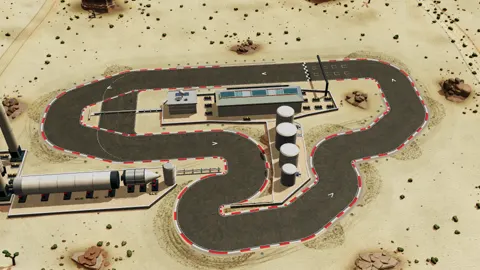
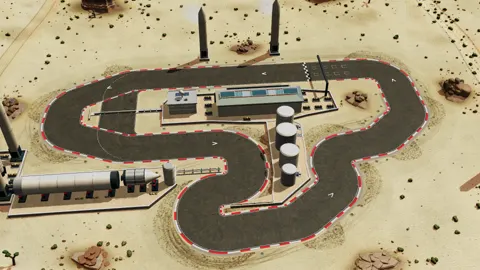
Fix Hop shortcuts, desktop racing lines and phone pause menus
Allow the marked Launchsite hairpin crossings and Golden Gate quay Hop while retaining adjacent protected parcels. Trim bridge abutments, expand rocket staging and boil-off, animate river canoes, and restore visible desktop pace lines.

Validation: 859 unit tests, 27 exact handling fixtures, browser layouts and actual Hop races, rendering budgets, and production Pages smoke checks. Physical Safari verification remains pending.

Changed region(s): [[0.5, 0.0, 0.5938, 0.2667], [0.3438, 0.0296, 0.4375, 0.2667], [0.9375, 0.6519, 1.0, 0.7111]]

diff --git a/tests/browser/playability-fixes.spec.ts b/tests/browser/playability-fixes.spec.ts
@@ -1,0 +1,38 @@
+import {test,expect} from '@playwright/test';
+import {waitForPhase} from './ui';
+import {mkdirSync} from 'node:fs';
+
+for(const tier of['low','medium','high','ultra'])test(`desktop mouse stroke is visibly rendered at ${tier}`,async({page})=>{
+ test.setTimeout(180000);await page.emulateMedia({reducedMotion:'reduce'});const errors:string[]=[];page.on('pageerror',e=>errors.push(e.message));
+ await page.goto(`/?graphics=${tier}`);await page.getByRole('button',{name:'Time Trial',exact:true}).click();await page.getByRole('button',{name:'Draw racing line',exact:true}).click();
+ await page.waitForFunction(()=>(window as any).__roadster.getGraphics().renderReady,null,{timeout:120000});
+ const ps=await page.evaluate(()=>{const g=(window as any).__roadster;return g.getTrack().centerline.filter((_:any,i:number)=>i%3===0).map((p:any)=>g.project(p));});
+ await page.mouse.move(ps[0].x,ps[0].y);await page.mouse.down();for(const p of ps.slice(1,Math.floor(ps.length/2)))await page.mouse.move(p.x,p.y);
+ await page.waitForFunction(()=>(window as any).__roadster.getRawStroke().length>10);await page.waitForTimeout(200);
+ // Read actual framebuffer pixels, not only mesh visibility: the old simple shader had meshes
+ // marked ready/active while drawing no pixels on desktop ANGLE/D3D11.
+ const changed=await page.evaluate(async()=>{
+  const g=(window as any).__roadster,w=g.getWorld(),lines=w.scene.meshes.filter((m:any)=>m.name==='pace-route');
+  const frame=(visible:boolean)=>new Promise<string>(resolve=>{for(const m of lines)m.isVisible=visible;w.scene.onAfterRenderObservable.addOnce(()=>resolve(w.engine.getRenderingCanvas().toDataURL()));});
+  const read=async(url:string)=>{const i=new Image();i.src=url;await i.decode();const c=document.createElement('canvas');c.width=i.width;c.height=i.height;const x=c.getContext('2d')!;x.drawImage(i,0,0);return x.getImageData(0,0,c.width,c.height).data;};
+  const off=await read(await frame(false)),on=await read(await frame(true));let green=0;
+  for(let i=0;i<on.length;i+=4)if(on[i+1]>120&&on[i+1]>on[i]*1.25&&Math.abs(on[i]-off[i])+Math.abs(on[i+1]-off[i+1])+Math.abs(on[i+2]-off[i+2])>60)green++;
+  return green;
+ });expect(changed).toBeGreaterThan(1500);
+ mkdirSync('artifacts/playability-fixes',{recursive:true});await page.screenshot({path:`artifacts/playability-fixes/desktop-line-${tier}.png`});await page.mouse.up();expect(errors).toEqual([]);
+});
+
+for(const view of[{width:844,height:390},{width:740,height:320},{width:390,height:844},{width:1440,height:900}])test(`pause actions remain centered and reachable at ${view.width}x${view.height}`,async({browser})=>{
+ const c=await browser.newContext({viewport:view,hasTouch:view.width<1000,isMobile:view.width<1000,reducedMotion:'no-preference'}),p=await c.newPage();
+ await p.goto('/');await p.getByRole('button',{name:'Time Trial',exact:true}).click();await p.getByRole('button',{name:'Draw racing line',exact:true}).click();await p.evaluate(()=>(window as any).__roadster.usePracticeLine());await p.getByRole('button',{name:'Race this line',exact:true}).click();await waitForPhase(p,'racing');await p.keyboard.press('Escape');await waitForPhase(p,'paused');await p.waitForTimeout(250);
+ const box=await p.locator('#panel').boundingBox();expect(box).not.toBeNull();expect(Math.abs(box!.x+box!.width/2-view.width/2)).toBeLessThan(2);expect(box!.y).toBeGreaterThanOrEqual(0);expect(box!.y+box!.height).toBeLessThanOrEqual(view.height+1);
+ for(const name of['Resume','Restart race','Draw new lines','Home']){const b=p.getByRole('button',{name,exact:true});await b.scrollIntoViewIfNeeded();const r=await b.boundingBox();expect(r!.y).toBeGreaterThanOrEqual(0);expect(r!.y+r!.height).toBeLessThanOrEqual(view.height+1);}
+ mkdirSync('artifacts/playability-fixes',{recursive:true});await p.screenshot({path:`artifacts/playability-fixes/pause-${view.width}.png`});await p.getByRole('button',{name:'Draw new lines',exact:true}).click();await waitForPhase(p,'drawing');await c.close();
+});
+
+test('Yosemite canoe hulls translate, stay batched and freeze with reduced motion',async({page})=>{
+ await page.goto('/?circuit=capitan-yosemite&graphics=medium');await page.getByRole('button',{name:'Time Trial',exact:true}).click();await page.getByRole('button',{name:'Draw racing line',exact:true}).click();await page.waitForFunction(()=>(window as any).__roadster.getGraphics().renderReady);
+ const read=()=>page.evaluate(()=>{const s=(window as any).__roadster.getWorld().scene,m=s.meshes.find((m:any)=>m.name==='yosemite-river-canoes');return{count:s.meshes.filter((m:any)=>m.name==='yosemite-river-canoes').length,p:Array.from(m.getVerticesData('position'))as number[]};});
+ const a=await read();await page.waitForTimeout(1200);const b=await read();expect(b.count).toBe(1);expect(Math.hypot(b.p[0]-a.p[0],b.p[2]-a.p[2])).toBeGreaterThan(.1);
+ await page.emulateMedia({reducedMotion:'reduce'});await page.waitForTimeout(150);const fixed=await read();await page.waitForTimeout(250);expect(await read()).toEqual(fixed);
+});

diff --git a/tests/unit/playability-fixes.test.ts b/tests/unit/playability-fixes.test.ts
@@ -1,0 +1,63 @@
+import {expect,test} from 'vitest';
+import {goldenGateTrack as golden} from '../../src/core/tracks/golden-gate';
+import {orbitalTrack as launch} from '../../src/core/tracks/orbital';
+import {compileRoute,createPracticeSamples} from '../../src/core/route';
+import {RaceSimulation} from '../../src/core/simulation';
+import {assessHopShortcuts,permittedHopBarriers} from '../../src/core/hop-shortcuts';
+import {barrierContact} from '../../src/core/barriers';
+import {yosemiteTrack} from '../../src/core/tracks/yosemite';
+import {yosemiteCanoes,canoePose} from '../../src/presentation/yosemite-river-life';
+import {yosemiteRivers} from '../../src/core/tracks/yosemite-water';
+import {insideBarrier} from '../../src/core/barriers';
+import {transformPoint} from '../../src/presentation/landscape/mesh';
+import {jumpCoordinates} from '../../src/core/support';
+import {pavedHopLanes} from '../../src/presentation/lanes';
+
+test('Golden Gate T4 is a real low planter: six clean hops, physical impact without Hop',()=>{
+ const r=compileRoute(createPracticeSamples(golden,7,'quayside-hop'),golden);expect(r.ok).toBe(true);if(!r.ok)return;
+ expect(pavedHopLanes(golden)).not.toContainEqual(golden.hopShortcuts![0]);
+ expect(r.route.hopShortcuts?.map(v=>v.id)).toEqual(['quayside-hop']);expect(r.route.hazards??[]).toEqual([]);
+ const main=compileRoute(createPracticeSamples(golden),golden);expect(main.ok).toBe(true);if(main.ok){expect(main.route.hopShortcuts).toBeUndefined();expect(main.route.length-r.route.length).toBeGreaterThan(15);}
+ for(const hop of[true,false]){
+  const sim=new RaceSimulation(r.route,golden,hop?6:1);let armed=true;
+  for(let i=0;i<24000&&!sim.state.finished;i++){
+   const s=sim.state;if(s.position.z<0)armed=true;
+   if(hop&&armed&&s.position.x>52&&s.position.x<70&&s.position.z<38&&s.position.z>34&&s.velocity.z< -3){sim.pressHop();armed=false;}sim.step();
+  }
+  expect(sim.state.finished).toBe(true);
+  if(hop){expect(sim.state.hopCount).toBe(6);expect(sim.state.collisionCount).toBe(0);expect(sim.state.recoveryCount).toBe(0);}else expect(sim.state.collisionCount).toBeGreaterThan(0);
+ }
+});
+
+test('Launchsite accepts hand-drawn diagonal crossings near T2, without exempting the tank parcel',()=>{
+ const lane=launch.hopShortcuts!.find(v=>v.id==='utility-wing-hop')!;
+ const diagonal=[{x:-4,z:30},{x:-2,z:36},{x:1,z:42},{x:2,z:46},{x:-3,z:51}];
+ const traversal=assessHopShortcuts(diagonal,launch);expect(traversal.obstacles).toEqual([lane.obstacleId]);
+ expect(assessHopShortcuts([...diagonal].reverse(),launch).obstacles).toEqual([]);
+ const r=compileRoute(createPracticeSamples(launch,7,lane.id),launch);expect(r.ok).toBe(true);if(!r.ok)return;
+ const sim=new RaceSimulation(r.route,launch),s=sim.state,t=r.route.hopShortcuts![0];
+ Object.assign(s,{position:{x:3,z:42},distance:(t.entryDistance+t.exitDistance)/2,movement:'airborne',flightOrigin:'hop',speed:25,heading:.35,velocity:{x:8,z:24},elevation:5});
+ const allowed=permittedHopBarriers(s,r.route,launch);expect(allowed).toContain(lane.obstacleId);
+ expect(barrierContact(s.position,s.heading,launch,0,5,true,allowed)).toBeNull();
+ expect(barrierContact({x:-13,z:41},0,launch,0,8,true,allowed)?.barrier.id).toBe('utility-storage-tower');
+ expect(barrierContact(s.position,s.heading,launch,0,0,true,allowed)?.barrier.id).toBe(lane.obstacleId);
+});
+
+test('bridge shore abutments stop at the road edges instead of intruding 1.5 metres',()=>{
+ for(const b of golden.barriers.filter(b=>b.id.includes('abutment'))){const zs=b.footprint.map(p=>p.z);expect(Math.max(...zs)<=34||Math.min(...zs)>=50).toBe(true);}
+});
+
+test('moving canoes remain on the river and clear of rocks and race takeoffs throughout their cycle',()=>{
+ const river=yosemiteRivers(yosemiteTrack)[0],boats=yosemiteCanoes(yosemiteTrack);
+ for(const boat of boats){
+  expect(Math.hypot(canoePose(boat,8).position.x-boat.position.x,canoePose(boat,8).position.z-boat.position.z)).toBeGreaterThan(4);
+  const violation=(()=>{for(let t=0;t<48;t+=.5){const pose=canoePose(boat,t);
+   for(let i=0;i<boat.geometry.vertexCount;i++){
+    const q=boat.geometry.positions.slice(i*3,i*3+3),[x,,z]=transformPoint(q[0],q[1],q[2],{...pose.position,y:boat.level,heading:pose.heading}),p={x,z};
+    if(!insideBarrier(p,{id:river.id,height:0,footprint:river.footprint}))return{t,p,reason:'bank'};
+    if(yosemiteTrack.barriers.some(b=>insideBarrier(p,b)))return{t,p,reason:'solid'};
+    for(const j of yosemiteTrack.jumps!){const c=jumpCoordinates(p,j);if(!(c.along< -j.rampLength-5||c.along>j.corridorLength+5||Math.abs(c.across)>j.width/2+5))return{t,p,reason:j.id};}
+   }
+  }})();expect(violation).toBeUndefined();
+ }
+},60000);

diff --git a/src/presentation/yosemite-river-life.ts b/src/presentation/yosemite-river-life.ts
@@ -10,7 +10,14 @@ import {yosemiteAppearance} from './themes';
 
 const art=yosemiteAppearance.riverLife;
 interface Paddle {from:number;to:number;pivot:{x:number;y:number;z:number}}
-export interface RiverCanoe {position:Point;level:number;heading:number;geometry:Geometry;paddles:Paddle[]}
+export interface RiverCanoe {position:Point;level:number;heading:number;geometry:Geometry;paddles:Paddle[];motion:{path:Point[];distances:number[];at:number}}
+
+/** Slow paddled circuits along the river, with continuous turns rather than visible wrap/teleport. */
+export function canoePose(boat:RiverCanoe,time:number){
+ const a=time*Math.PI*2/art.cruisePeriod,along=Math.sin(a)*art.travel,across=.12*(1-Math.cos(a)),m=boat.motion;
+ const p=samplePolyline(m.path,m.distances,m.at+along),b=samplePolyline(m.path,m.distances,m.at+along-.25),f=samplePolyline(m.path,m.distances,m.at+along+.25),heading=Math.atan2(f.x-b.x,f.z-b.z);
+ return{position:{x:p.x+Math.cos(heading)*across,z:p.z-Math.sin(heading)*across},heading:heading+Math.atan2(.12*Math.sin(a),art.travel*Math.cos(a))};
+}
 
 /** Original open-hull canoe, wooden gunwales, two seated paddlers and small wakes. */
 function canoe(paint:string){
@@ -57,7 +64,7 @@ function canoe(paint:string){
  }
  box(0,.36,0,art.width*.87,.07,.13,wood);
  for(const side of[-1,1])for(let i=0;i<3;i++){
-  const z=-art.length/2-.12-i*.40,x=side*(.34+i*.13),color=mix(hex(art.foam),hex(yosemiteAppearance.water),i*.2);
+  const z=-art.length/2+.6-i*.20,x=side*(.34+i*.13),color=mix(hex(art.foam),hex(yosemiteAppearance.water),i*.2);
   quad([[x-.045,.012,z],[x+.045,.012,z],[x+side*.15+.045,.012,z-.32],[x+side*.15-.045,.012,z-.32]].reverse(),color);
  }
  return{geometry:g.withNormals(),paddles};
@@ -68,7 +75,7 @@ export function yosemiteCanoes(track:TrackDefinition):RiverCanoe[]{
  const river=yosemiteRivers(track).find(r=>r.id==='bridalveil-creek')!,distances=cumulative(river.path);
  return art.anchors.map((anchor,index)=>{
   const s=projectToPolyline(anchor,river.path,distances).progress,position=samplePolyline(river.path,distances,s),before=samplePolyline(river.path,distances,s-.5),after=samplePolyline(river.path,distances,s+.5);
-  return{position,level:river.level,heading:Math.atan2(after.x-before.x,after.z-before.z),...canoe(art.hulls[index%art.hulls.length])};
+  return{position,level:river.level,heading:Math.atan2(after.x-before.x,after.z-before.z),motion:{path:river.path,distances,at:s},...canoe(art.hulls[index%art.hulls.length])};
  });
 }
 
@@ -84,13 +91,13 @@ export function buildYosemiteRiverLife(scene:Scene,track:TrackDefinition,materia
  return{mesh,update(time:number,reduced:boolean){
   const t=reduced?0:time;
   for(const [index,{boat,start,bindings}]of spans.entries()){
-   const phase=index*2.1,bob=Math.sin(t*.95+phase)*art.bob,roll=Math.sin(t*1.3+phase)*art.roll,cr=Math.cos(roll),sr=Math.sin(roll),ch=Math.cos(boat.heading),sh=Math.sin(boat.heading);
+   const pose=canoePose(boat,t),phase=index*2.1,bob=Math.sin(t*.95+phase)*art.bob,roll=Math.sin(t*1.3+phase)*art.roll,cr=Math.cos(roll),sr=Math.sin(roll),ch=Math.cos(pose.heading),sh=Math.sin(pose.heading);
    const angles=boat.paddles.map((_,i)=>Math.sin(t*art.paddleSpeed+phase+i*.65)*art.paddleSwing),cos=angles.map(Math.cos),sin=angles.map(Math.sin),base=boat.geometry.positions,bn=boat.geometry.normals!;
    for(let i=0;i<boat.geometry.vertexCount;i++){
     const a=i*3,out=(start+i)*3,p=bindings[i];let x=base[a],y=base[a+1],z=base[a+2],nx=bn[a],ny=bn[a+1],nz=bn[a+2];
     if(p>=0){const pivot=boat.paddles[p].pivot,dy=y-pivot.y,dz=z-pivot.z;y=pivot.y+dy*cos[p]-dz*sin[p];z=pivot.z+dy*sin[p]+dz*cos[p];const yy=ny*cos[p]-nz*sin[p];nz=ny*sin[p]+nz*cos[p];ny=yy;}
     const xx=x*cr-y*sr,yy=x*sr+y*cr,nnx=nx*cr-ny*sr,nny=nx*sr+ny*cr;
-    positions[out]=boat.position.x+xx*ch+z*sh;positions[out+1]=boat.level+bob+yy;positions[out+2]=boat.position.z-xx*sh+z*ch;
+    positions[out]=pose.position.x+xx*ch+z*sh;positions[out+1]=boat.level+bob+yy;positions[out+2]=pose.position.z-xx*sh+z*ch;
     normals[out]=nnx*ch+nz*sh;normals[out+1]=nny;normals[out+2]=-nnx*sh+nz*ch;
    }
   }

diff --git a/src/core/tracks/orbital.ts b/src/core/tracks/orbital.ts
@@ -4,7 +4,7 @@ import { createStartFinish } from '../start-finish';
 import { cumulative, projectToPolyline } from '../geometry';
 import type { HopShortcut, Point, TrackDefinition } from '../types';
 import { outcrop } from './outcrop';
-import { launchsiteRocketStages, launchsiteVessels, launchsiteYardTank } from './venue-parcels';
+import { launchsiteRocketStages, launchsiteVessels, launchsiteYardTank, launchsiteRemoteRockets } from './venue-parcels';
 import { serviceConduit, obstacleRectangle, rocketYardTip, utilityWing } from './hop-obstacles';
 
 const centerline = roundedCircuit([
@@ -34,7 +34,7 @@ const wingBranch: Point[] = [
   ...Array.from({ length: 25 }, (_, i) => ({ x: -2, z: 20 + i })),
   ...Array.from({ length: 13 }, (_, i) => ({ x: -11 + Math.cos(i / 12 * Math.PI / 2) * 9, z: 44 + Math.sin(i / 12 * Math.PI / 2) * 9 })).slice(1),
 ];
-const wingHop: HopShortcut = { id: 'utility-wing-hop', branch: wingBranch, width: 16, obstacleId: 'utility-wing-hop-barrier',
+const wingHop: HopShortcut = { id: 'utility-wing-hop', branch: wingBranch, width: 16, clearanceWidth: 22, obstacleId: 'utility-wing-hop-barrier',
   entryProgress: projectToPolyline(wingBranch[0], centerline, distances).progress,
   exitProgress: projectToPolyline(wingBranch.at(-1)!, centerline, distances).progress };
 /**
@@ -45,7 +45,7 @@ const tipBranch: Point[] = [
   ...Array.from({ length: 17 }, (_, i) => ({ x: 24 - Math.sin(i / 16 * Math.PI / 2) * 6, z: 14 - Math.cos(i / 16 * Math.PI / 2) * 6 })),
   ...Array.from({ length: 30 }, (_, i) => ({ x: 18, z: 15 + i })),
 ];
-const tipHop: HopShortcut = { id: 'rocket-yard-tip-hop', branch: tipBranch, width: 16, obstacleId: 'rocket-yard-tip-hop-barrier',
+const tipHop: HopShortcut = { id: 'rocket-yard-tip-hop', branch: tipBranch, width: 16, clearanceWidth: 22, obstacleId: 'rocket-yard-tip-hop-barrier',
   entryProgress: projectToPolyline(tipBranch[0], centerline, distances).progress,
   exitProgress: projectToPolyline(tipBranch.at(-1)!, centerline, distances).progress };
 const rect = (x: number, z: number, w: number, d: number) => [{ x, z }, { x: x + w, z }, { x: x + w, z: z + d }, { x, z: z + d }];
@@ -79,9 +79,13 @@ const rocks: TrackDefinition['barriers'] = [
 
 /** Flat physical layout; scenery/branding never participate in its rules. */
 export const orbitalTrack: TrackDefinition = {
-  id: 'orbital-launchyard', version: 10, name: 'Launchsite', centerline, distances, length,
+  id: 'orbital-launchyard', version: 11, name: 'Launchsite', centerline, distances, length,
   roadWidth: 16, carWidth: VEHICLE_DIMENSIONS.width, carLength: VEHICLE_DIMENSIONS.length, start: centerline[0], startFinish: createStartFinish(centerline[0], centerline[1], 16),
   barriers: ([
+    ...launchsiteRemoteRockets.flatMap(r=>[
+      {id:r.id,kind:'infield' as const,height:1.25,footprint:rect(r.x-r.radius*1.3,r.z-r.radius*1.3,r.radius*2.6,r.radius*2.6)},
+      {id:`${r.id}-rocket`,kind:'building' as const,height:r.height,baseHeight:1.25,footprint:Array.from({length:20},(_,i)=>({x:r.x+Math.cos(i/20*Math.PI*2)*r.radius*1.25,z:r.z+Math.sin(i/20*Math.PI*2)*r.radius*1.25}))},
+    ]),
     // Protected utility parcel with low perimeter and separate real-height vessels.
     { id:'utility-storage-tower',kind:'infield',height:1.25,runoffException:'cut-protection',
       footprint:[[-28,0],[-23,-4],[-13,-3],[-12,28],[-10,39],[-10,43.6],[-13,43.6],[-26,32],[-26,24],[-27,17]].map(([x,z])=>({x,z})) },

diff --git a/src/core/hop-shortcuts.ts b/src/core/hop-shortcuts.ts
@@ -1,5 +1,5 @@
 import { angleDelta, clamp, cumulative, distance, lerp, mix, modulo, projectToPolyline } from './geometry';
-import { blockedRouteSection } from './barriers';
+import { blockedRouteSection, insideBarrier } from './barriers';
 import type { CompiledRoute, HopShortcut, HopTraversal, Point, RaceState, TrackDefinition } from './types';
 
 export const SHORTCUT_RULES = Object.freeze({ clearance: 0.15, sampleSpacing: 0.35, backwardTolerance: 0.5, commitAlignment: 0.5 });
@@ -25,11 +25,11 @@ function crossing(a: Point, b: Point, shortcut: HopShortcut, exit: boolean) {
 function insideCorridor(p: Point, heading: number, shortcut: HopShortcut, track: TrackDefinition) {
   const q = shortcutProjection(p, shortcut);
   const radius = track.carWidth / 2 + (track.carLength - track.carWidth) / 2 * Math.abs(Math.sin(angleDelta(heading, q.heading))) + SHORTCUT_RULES.clearance;
-  return q.distance + radius <= shortcut.width / 2 + 1e-6;
+  return q.distance + radius <= (shortcut.clearanceWidth ?? shortcut.width) / 2 + 1e-6;
 }
 
 /** Where the line's full vehicle footprint first meets a barrier: the segment index and contact point. */
-function obstacleMeeting(points: Point[], track: TrackDefinition, obstacle: TrackDefinition['barriers'][number]) {
+function obstacleMeeting(points: Point[], track: TrackDefinition, obstacle: TrackDefinition['barriers'][number], centerCrossing = false) {
   const margin = track.carLength / 2 + track.carWidth / 2 + SHORTCUT_RULES.clearance;
   const minX = Math.min(...obstacle.footprint.map(p => p.x)) - margin;
   const maxX = Math.max(...obstacle.footprint.map(p => p.x)) + margin;
@@ -39,6 +39,12 @@ function obstacleMeeting(points: Point[], track: TrackDefinition, obstacle: Trac
   for (let i = 1; i < points.length; i++) {
     const a = points[i - 1], b = points[i];
     if (Math.max(a.x, b.x) < minX || Math.min(a.x, b.x) > maxX || Math.max(a.z, b.z) < minZ || Math.min(a.z, b.z) > maxZ) continue;
+    // A broad flight corridor must not capture normal road lines merely brushing a prop's end.
+    if (centerCrossing) {
+      const n = Math.max(1, Math.ceil(distance(a, b) / SHORTCUT_RULES.sampleSpacing));
+      for (let j = 0; j <= n; j++) { const point = mix(a, b, j / n); if (insideBarrier(point, obstacle)) return { index: i, point }; }
+      continue;
+    }
     const hit = blockedRouteSection([a, b], physical);
     if (hit) return { index: i, point: hit.point };
   }
@@ -107,7 +113,7 @@ export function assessHopShortcuts(points: Point[], track: TrackDefinition): { t
   for (const shortcut of track.hopShortcuts) {
     const obstacle = track.barriers.find(b => b.id === shortcut.obstacleId);
     if (!obstacle) continue;
-    const meeting = obstacleMeeting(points, track, obstacle);
+    const meeting = obstacleMeeting(points, track, obstacle, shortcut.clearanceWidth !== undefined);
     if (!meeting) continue;
     const center = { x: obstacle.footprint.reduce((v, p) => v + p.x, 0) / obstacle.footprint.length, z: obstacle.footprint.reduce((v, p) => v + p.z, 0) / obstacle.footprint.length };
     const obstacleAt = shortcutProjection(center, shortcut).progress;

diff --git a/src/core/tracks/golden-gate.ts b/src/core/tracks/golden-gate.ts
@@ -5,6 +5,7 @@ import { createStartFinish } from '../start-finish';
 import type { Point, TrackBarrier, TrackDefinition } from '../types';
 import { outcrop } from './outcrop';
 import { goldenMarketFrontage } from './venue-parcels';
+import { obstacleRectangle, quayPlanter } from './hop-obstacles';
 
 // Clockwise city streets, quayside chicane, 88 m bridge and inland return. No road crossings.
 const centerline = roundedCircuit([
@@ -35,10 +36,13 @@ const parkBoulders = [boulders('northwest', -91, 55, 2.6, 2, 0.3, 1.9, 1.7), bou
 const supports: TrackBarrier[] = [];
 for (const x of [-28, 28]) for (const z of [32.5, 51.5]) supports.push({ ...rectangle(`bridge-pier-${x}-${z}`, x - 0.8, z - 0.8, 1.6, 1.6), height: 0.4, kind: 'bridge-support', bridgeId: bridge.id });
 export const goldenGateTrack: TrackDefinition = {
-  id: 'golden-gate', version: 7, name: 'Golden Gate', centerline, distances, length,
+  id: 'golden-gate', version: 8, name: 'Golden Gate', centerline, distances, length,
   roadWidth: 16, carWidth: VEHICLE_DIMENSIONS.width, carLength: VEHICLE_DIMENSIONS.length, start: centerline[0],
   startFinish: createStartFinish(centerline[0], centerline[1], 16), bridges: [bridge],
+  hopShortcuts: [{ id: 'quayside-hop', branch: [{x:62,z:42},{x:62,z:35},{x:62,z:27},{x:60,z:20},{x:55,z:14},{x:52,z:8}], width:16, clearanceWidth:22, obstacleId:'quayside-planter-hop',
+    entryProgress:projectToPolyline({x:62,z:42},centerline,distances).progress, exitProgress:projectToPolyline({x:52,z:8},centerline,distances).progress }],
   barriers: [
+    { id:'quayside-planter-hop', kind:'service-barrier', height:quayPlanter.height, runoffException:'hop-lane', footprint:obstacleRectangle(quayPlanter.x,quayPlanter.z,quayPlanter.width,quayPlanter.depth) },
     { ...rectangle('market-annex',2,-29.5,65,7),height:1.25,runoffException:'cut-protection' },
     ...goldenMarketFrontage.map(b=>({...rectangle(b.id,b.x-b.width/2,b.z-b.depth/2,b.width,b.depth),kind:'building' as const,height:b.height+.28,runoffException:'cut-protection' as const})),
     { ...rectangle('median-arcade',57,-.5,44,4.5),kind:'building',height:8.8,runoffException:'urban-median' },
@@ -47,8 +51,8 @@ export const goldenGateTrack: TrackDefinition = {
     rectangle('west-city-block', -118, -7, 16, 32), rectangle('distant-city', 70, 66, 45, 38),
     rectangle('inlet-head', -38, 23.65, 76, 0.35),
     ...[-43, 42.65].flatMap((x, side) => [
-      { ...rectangle(`inlet-abutment-${side}`, x, 24, 0.35, 11.5), kind: 'bridge-support' as const, bridgeId: bridge.id, height: 0.8 },
-      { ...rectangle(`outer-abutment-${side}`, x, 48.5, 0.35, 61.5), kind: 'bridge-support' as const, bridgeId: bridge.id, height: 0.8 },
+      { ...rectangle(`inlet-abutment-${side}`, x, 24, 0.35, 10), kind: 'bridge-support' as const, bridgeId: bridge.id, height: 0.8 },
+      { ...rectangle(`outer-abutment-${side}`, x, 50, 0.35, 60), kind: 'bridge-support' as const, bridgeId: bridge.id, height: 0.8 },
     ]), ...rails, ...supports, ...parkBoulders,
   ],
 };

diff --git a/src/presentation/themes.ts b/src/presentation/themes.ts
@@ -1,5 +1,6 @@
 import { assetUrl } from './urls';
 import { VEHICLE_DIMENSIONS } from '../core/vehicle-size';
+import { launchsiteRemoteRockets } from '../core/tracks/venue-parcels';
 
 export const paintFinishes = [
   { id: 'glacier', name: 'Stainless steel gray', color: '#aeb4b8' },
@@ -298,8 +299,8 @@ export const pierRampAppearance = { surfaceOffset:.11,plankLength:.58,boards:['#
 export const pierComposition={wheelX:96.5,wheelY:27,wheelZ:15,wheelRadius:24,speed:.055,coral:'#f07359',ivory:'#fff0ce',gold:'#f3c55f',glass:'#507987',timber:'#bd9870',deckSeam:'#8d735a',cabins:['#ef7054','#62b7b0','#edbf49','#ac83bf'],coaster:{x:104,z:30,rx:29,rz:6,base:3,amplitude:11.5}};
 /** Large native attractions, reused material batches and one capped vapor mesh. */
 export const landmarkShowcase={
- rockets:[{x:90,z:10,height:32,radius:1.9},{x:90,z:31,height:28,radius:1.8}],
- boilOff:{capacity:48,period:4.6,opacity:.24,color:'#e6eeee',vents:[{x:95,y:19,z:16.5},{x:90,y:24,z:8},{x:90,y:21,z:29}]},
+ rockets:[{x:90,z:10,height:32,radius:1.9},{x:90,z:31,height:28,radius:1.8},...launchsiteRemoteRockets],
+ boilOff:{capacity:96,period:5.2,opacity:.6,color:'#f2f5ef',sizeStart:1.15,sizeGrowth:6.8,rise:10,drift:7,vents:[{x:95,y:19,z:16.5},{x:90,y:24,z:8},{x:90,y:21,z:29},...launchsiteRemoteRockets.map(r=>({x:r.x,y:r.height*.65,z:r.z-1.8}))]},
  bridge:{hangerSpacing:4,hangerWidth:.18,deckY:1.0},
  tahoe:{snow:'#f4f2e7',shade:'#afc4ce',steel:'#344653',red:'#d35449',glass:'#527784',wood:'#805637',warm:'#f1ca84',cloth:'#ac3e3a',clearings:[{x:-36,z:-8.2,width:24,depth:7.2},{x:24,z:-20,width:9,depth:27},{x:-54,z:16,width:13,depth:9},{x:1,z:24,width:19,depth:5},{x:-55,z:1,width:11,depth:8},{x:-43,z:25,width:12,depth:7},{x:26,z:8,width:10,depth:9}]},
  skyline:{warm:'#efd8ab',cool:'#9ebbc0',facade:'#41434b',roof:'#8e7769'},
@@ -346,9 +347,9 @@ export const yosemiteAppearance={
  waterfall:{speed:.8,sprayCount:36,dropletCount:54,gravity:28,opacity:.96,sprayOpacity:.48,wetRock:'#657b7b',lipFraction:.90,lipRadius:.88,waterRadius:.89,halfAngle:.42,curtainWidth:10.8,basinWidth:16,basinDepth:10,basinHeight:.75,angle:Math.PI/2+.04,
   widths:{'granite-falls':10.8,'creek-falls':6.4,'cathedral-falls':7.2,'sentinel-falls':6.6,'sentinel-buttress-falls':7.4,'granite-twin-falls':6.2} as Record<string,number>},
  dressing:{roadWorn:'#b0a07d',roadEdge:'#857d60',barkDark:'#4d3a2c',cutWood:'#c8ab77',stonework:'#a2a18f',trim:'#d6cfac',roofSeam:'#687166'},
- riverLife:{length:7.2,width:1.8,bob:.045,roll:.012,paddleSpeed:2.6,paddleSwing:.34,
+ riverLife:{length:7.2,width:1.8,bob:.045,roll:.012,paddleSpeed:2.6,paddleSwing:.34,travel:5,cruisePeriod:48,
   hulls:['#f35a40','#ffce43','#f18c41'],wood:'#d4ad75',interior:'#b99567',vest:'#ffd05a',shirt:'#315c74',skin:'#d6a27c',foam:'#c0d9d3',
-  anchors:[{x:12,z:7},{x:18,z:-19},{x:14,z:-45}]},
+  anchors:[{x:14,z:-10},{x:14,z:-30},{x:14,z:-46}]},
 };
 
 export const roadsideAppearance = {

diff --git a/src/presentation/pace-line.ts b/src/presentation/pace-line.ts
@@ -4,6 +4,7 @@ import type { GreasedLineMesh } from '@babylonjs/core/Meshes/GreasedLine/greased
 import { Color3 } from '@babylonjs/core/Maths/math.color';
 import { Vector2 } from '@babylonjs/core/Maths/math.vector';
 import type { Scene } from '@babylonjs/core/scene';
+import type { StandardMaterial } from '@babylonjs/core/Materials/standardMaterial';
 import type { Point } from '../core/types';
 import type { PresentationTheme } from './themes';
 import { planningHeight } from './planning-height';
@@ -19,12 +20,20 @@ export class PaceLine {
   constructor(private scene: Scene, points: Point[], speeds: number[], private theme: PresentationTheme, player = 0, private racing = false, error = false, ignored = false, track?: TrackDefinition) {
     this.meshes = [true, false].map(outline => {
       const mesh = CreateGreasedLine('pace-route', { points: points.flatMap(p => [p.x, (track ? planningHeight(p, track) : 0) + 0.32 + player * 0.012 + (outline ? 0 : 0.005), p.z]) }, {
-        materialType: GreasedLineMeshMaterialType.MATERIAL_TYPE_SIMPLE,
+        materialType: GreasedLineMeshMaterialType.MATERIAL_TYPE_STANDARD,
         sizeAttenuation: true, width: outline ? theme.pace.outlineWidth : theme.pace.width,
         color: outline ? Color3.FromHexString('#111820') : ignored ? Color3.FromHexString('#aebdc5') : error ? Color3.FromHexString('#ff6ce1') : undefined,
         colors: outline || error || ignored ? undefined : speeds.map(speed => paceColor(speed, theme)), useColors: !outline && !error && !ignored,
         useDash: ignored || racing && player > 0, dashCount: ignored ? 22 : player === 1 ? 28 : player === 2 ? 54 : 85, dashRatio: ignored ? 0.45 : player === 3 ? 0.7 : 0.25,
       }, scene) as GreasedLineMesh;
+      // The simple shader can be ready/active yet draw no pixels on desktop ANGLE. The standard
+      // plugin supports both renderer paths; unlit color keeps pace independent of venue lighting.
+      const material=mesh.material as StandardMaterial;
+      material.disableLighting=true;material.emissiveColor=Color3.White();
+      material.metadata = { roadsterOverlay: true };
+      const pre=scene.prePassRenderer;
+      // The new-material observer runs before the metadata is assigned above.
+      if(pre&&!pre.excludedMaterials.includes(material))pre.excludedMaterials.push(material);
       // Both layers use the transparent queue so the outline cannot paint over colored joins.
       mesh.isPickable = false; mesh.alphaIndex = outline ? 0 : 1;
       mesh.material!.alpha = ignored ? outline ? 0.35 : 0.65 : racing ? outline ? 0.35 : 0.66 : outline ? 0.7 : 0.999;

diff --git a/src/presentation/rocket-boiloff.ts b/src/presentation/rocket-boiloff.ts
@@ -12,14 +12,15 @@ export function rocketBoilOff(scene:Scene){
  const a=landmarkShowcase.boilOff,n=a.capacity,texture=new DynamicTexture('cryogenic-vapor',64,scene,false),ctx=texture.getContext()as CanvasRenderingContext2D;
  const grad=ctx.createRadialGradient(32,32,0,32,32,32);grad.addColorStop(0,'rgba(255,255,255,.8)');grad.addColorStop(.45,'rgba(255,255,255,.45)');grad.addColorStop(1,'rgba(255,255,255,0)');ctx.fillStyle=grad;ctx.fillRect(0,0,64,64);texture.hasAlpha=true;texture.update();
  const m=new StandardMaterial('cryogenic-vapor',scene);m.diffuseTexture=texture;m.useAlphaFromDiffuseTexture=true;m.disableLighting=true;m.emissiveColor=Color3.FromHexString(a.color);m.backFaceCulling=false;m.disableDepthWrite=true;
+ m.metadata={roadsterOverlay:true}; // Translucent gas must not write false surfaces into AO/reflections.
  const p=new Float32Array(n*12),colors=new Float32Array(n*16),uvs=new Float32Array(n*8),indices:number[]=[];
  for(let i=0;i<n;i++){uvs.set([0,0,1,0,1,1,0,1],i*8);const v=i*4;indices.push(v,v+1,v+2,v,v+2,v+3);}
  const mesh=new Mesh('launchsite-bounded-boiloff',scene),data=new VertexData();data.positions=p;data.colors=colors;data.uvs=uvs;data.indices=indices;data.normals=new Float32Array(n*12);data.applyToMesh(mesh,true);mesh.material=m;mesh.hasVertexAlpha=true;mesh.isPickable=false;mesh.alwaysSelectAsActiveMesh=true;mesh.metadata={dynamicScenery:true,particleCapacity:n,cosmetic:true};
  const update=(time:number,reduced:boolean)=>{
   const view=scene.activeCamera!.getViewMatrix().m,t=reduced?0:time;
   for(let i=0;i<n;i++){
-   const source=a.vents[i%a.vents.length],u=(t/a.period+i/n)%1,phase=i*2.39996,size=.65+u*3.8;
-   const x=source.x+u*4.8+Math.sin(phase+u*5)*u,z=source.z-u*1.7+Math.cos(phase+u*4)*u,y=source.y+u*5.5;
+   const source=a.vents[i%a.vents.length],u=(t/a.period+i/n)%1,phase=i*2.39996,size=a.sizeStart+u*a.sizeGrowth;
+   const x=source.x+u*a.drift+Math.sin(phase+u*5)*u*1.8,z=source.z-u*1.7+Math.cos(phase+u*4)*u*1.6,y=source.y+u*a.rise;
    const alpha=Math.sin(u*Math.PI)**2*a.opacity;
    for(let k=0;k<4;k++){const sx=(k===0||k===3?-1:1)*size,sy=(k<2?-1:1)*size,at=(i*4+k)*3;
     p[at]=x+view[0]*sx+view[1]*sy;p[at+1]=y+view[4]*sx+view[5]*sy;p[at+2]=z+view[8]*sx+view[9]*sy;colors.set([1,1,1,alpha],(i*4+k)*4);

diff --git a/tests/browser/landmark-showcase.spec.ts b/tests/browser/landmark-showcase.spec.ts
@@ -16,8 +16,9 @@ test('rocket boil-off stays one bounded cosmetic batch and freezes with reduced 
  await page.goto('/?circuit=launchsite&graphics=medium');await page.getByRole('button',{name:'Time Trial',exact:true}).click();await page.getByRole('button',{name:'Draw racing line',exact:true}).click();
  await page.waitForFunction(()=>(window as any).__roadster.getGraphics().renderReady);
  const read=()=>page.evaluate(()=>{const w=(window as any).__roadster.getWorld(),m=w.scene.meshes.find((m:any)=>m.name==='launchsite-bounded-boiloff');return{count:w.scene.meshes.filter((m:any)=>m.name==='launchsite-bounded-boiloff').length,capacity:m.metadata.particleCapacity,p:Array.from(m.getVerticesData('position')),alpha:Array.from(m.getVerticesData('color')),triangles:m.getTotalIndices()/3,casts:w.scene.lights.flatMap((l:any)=>l.getShadowGenerator?.()?.getShadowMap?.()?.renderList??[]).some((v:any)=>v===m)};});
- const a=await read();await page.waitForTimeout(250);const b=await read();expect(b.count).toBe(1);expect(b.capacity).toBe(48);expect(b.triangles).toBe(96);expect(b.p).not.toEqual(a.p);expect(b.casts).toBe(false);expect(b.p.every(Number.isFinite)).toBe(true);
+ const a=await read();await page.waitForTimeout(250);const b=await read();expect(b.count).toBe(1);expect(b.capacity).toBe(96);expect(b.triangles).toBe(192);expect(b.p).not.toEqual(a.p);expect(b.casts).toBe(false);expect(b.p.every(Number.isFinite)).toBe(true);
  await page.emulateMedia({reducedMotion:'reduce'});await page.waitForTimeout(120);const c=await read();await page.waitForTimeout(250);expect(await read()).toEqual(c);
+ const excluded=await page.evaluate(()=>{const w=(window as any).__roadster.getWorld();w.setGraphics('high');const m=w.scene.meshes.find((m:any)=>m.name==='launchsite-bounded-boiloff');return w.scene.prePassRenderer.excludedMaterials.includes(m.material);});expect(excluded).toBe(true);
 });
 for(const id of['santa-monica','la-nights'])test(`${id} prominent landmarks preserve the fixed phone camera through a race`,async({browser})=>{
  const errors:string[]=[],c=await browser.newContext({viewport:{width:844,height:390},hasTouch:true,isMobile:true,deviceScaleFactor:2}),p=await c.newPage();p.on('pageerror',e=>errors.push(e.message));

diff --git a/src/presentation/launchsite.ts b/src/presentation/launchsite.ts
@@ -66,6 +66,7 @@ const inExtent = (p: Point, e: Extent, margin = 0) => p.x >= e.minX + margin && 
 export function launchsiteLayout(track: TrackDefinition) {
   const L = LAUNCHSITE, extent = L.extent, D = courseDistance(track, extent, 3);
   const rocks = track.barriers.filter(b => b.kind === 'rock'), solids = track.barriers;
+  const stagingPads=solids.filter(b=>b.id.endsWith('-pad')).map(b=>({minX:Math.min(...b.footprint.map(p=>p.x))-1,maxX:Math.max(...b.footprint.map(p=>p.x))+1,minZ:Math.min(...b.footprint.map(p=>p.z))-1,maxZ:Math.max(...b.footprint.map(p=>p.z))+1}));
   const formations: FormationSpec[] = rocks.map((b, i) => ({ id: b.id, footprint: b.footprint, height: b.height, seed: 101 + i * 37, ...(L.formations[b.id] ?? { style: b.height >= 10 ? 'butte' : 'boulders' }) }));
   const washes = L.washes.map(w => smoothPath(w, 2)), roads = L.roads.map(r => ({ ...r, path: smoothPath(r.points, 2) }));
   const W = distanceField(washes, extent, 3), R = distanceField(roads.map(r => r.path), extent, 3);
@@ -78,6 +79,8 @@ export function launchsiteLayout(track: TrackDefinition) {
   const dune = (x: number, z: number) => { const wx = x + 16 * fbm2(x / 70, z / 70, 2, 51), wz = z + 16 * fbm2(x / 70 + 9, z / 70, 2, 52); return ridged2((wx * 0.8 + wz * 0.6) / 44, (-wx * 0.6 + wz * 0.8) / 90, 2, 9); };
   const nearestRock = (p: Point): { distance: number; barrier: TrackBarrier | null } => { const i = rockField.nearest(p.x, p.z); return { distance: rockField(p.x, p.z), barrier: i >= 0 ? rocks[i] : null }; };
   const height = (x: number, z: number) => {
+    // Staging pads are grounded, not perched on procedural dunes.
+    if(stagingPads.some(b=>x>=b.minX&&x<=b.maxX&&z>=b.minZ&&z<=b.maxZ))return 0;
     const d = D(x, z), r = rise(d), gate = smoothstep(L.flatUntil - 2, 42, d);
     if (gate <= 0) return 0;
     let h = r * (2.9 * (0.5 + 0.5 * fbm2(x / 62, z / 62, 4, 3)) + 1.3 * dune(x, z) ** 1.5);

diff --git a/tests/browser/hop-obstacles.spec.ts b/tests/browser/hop-obstacles.spec.ts
@@ -11,6 +11,8 @@ async function raceStage(page:Page,stage:'window'|'airborne'|'results',id:string
       if(stage==='airborne')return r.flightOrigin==='hop'&&r.elevation>3;
       return id==='launchsite'?Math.abs(r.position.x-52)<3&&r.position.z>-29&&r.position.z<-25&&r.velocity.z>15
         :id==='launchsite-wing'?Math.abs(r.position.x+2)<4&&r.position.z>31&&r.position.z<36&&r.velocity.z>5
+        :id==='launchsite-tip'?r.position.x>10&&r.position.x<26&&r.position.z>11&&r.position.z<15&&r.velocity.z>3
+        :id==='golden-t4'?r.position.x>52&&r.position.x<70&&r.position.z<38&&r.position.z>34&&r.velocity.z< -3
         :Math.abs(r.position.x+62)<3&&r.position.z>15&&r.position.z<19&&r.velocity.z<-15;
     },{stage,id},{polling:'raf',timeout:150000});
     const s=await page.evaluate(()=>(window as any).__roadster.getState());
@@ -21,7 +23,7 @@ async function raceStage(page:Page,stage:'window'|'airborne'|'results',id:string
 }
 
 // launchsite-wing: the v10 lane over the low wing between the hairpin legs.
-for(const [id,circuit,lane] of [['launchsite','launchsite','service-hop'],['launchsite-wing','launchsite','utility-wing-hop'],['la-nights','la-nights','backlot-alley']] as const)test(`${id}: compact Hop obstacle clears in an actual race`,async({page})=>{
+for(const [id,circuit,lane] of [['launchsite','launchsite','service-hop'],['launchsite-wing','launchsite','utility-wing-hop'],['launchsite-tip','launchsite','rocket-yard-tip-hop'],['golden-t4','golden-gate','quayside-hop'],['la-nights','la-nights','backlot-alley']] as const)test(`${id}: compact Hop obstacle clears in an actual race`,async({page})=>{
   test.setTimeout(300000);mkdirSync('artifacts/hop-obstacles',{recursive:true});
   const errors:string[]=[];page.on('pageerror',e=>errors.push(e.message));
   await page.goto(`/?circuit=${circuit}`);await page.getByRole('button',{name:'Time Trial',exact:true}).click();
